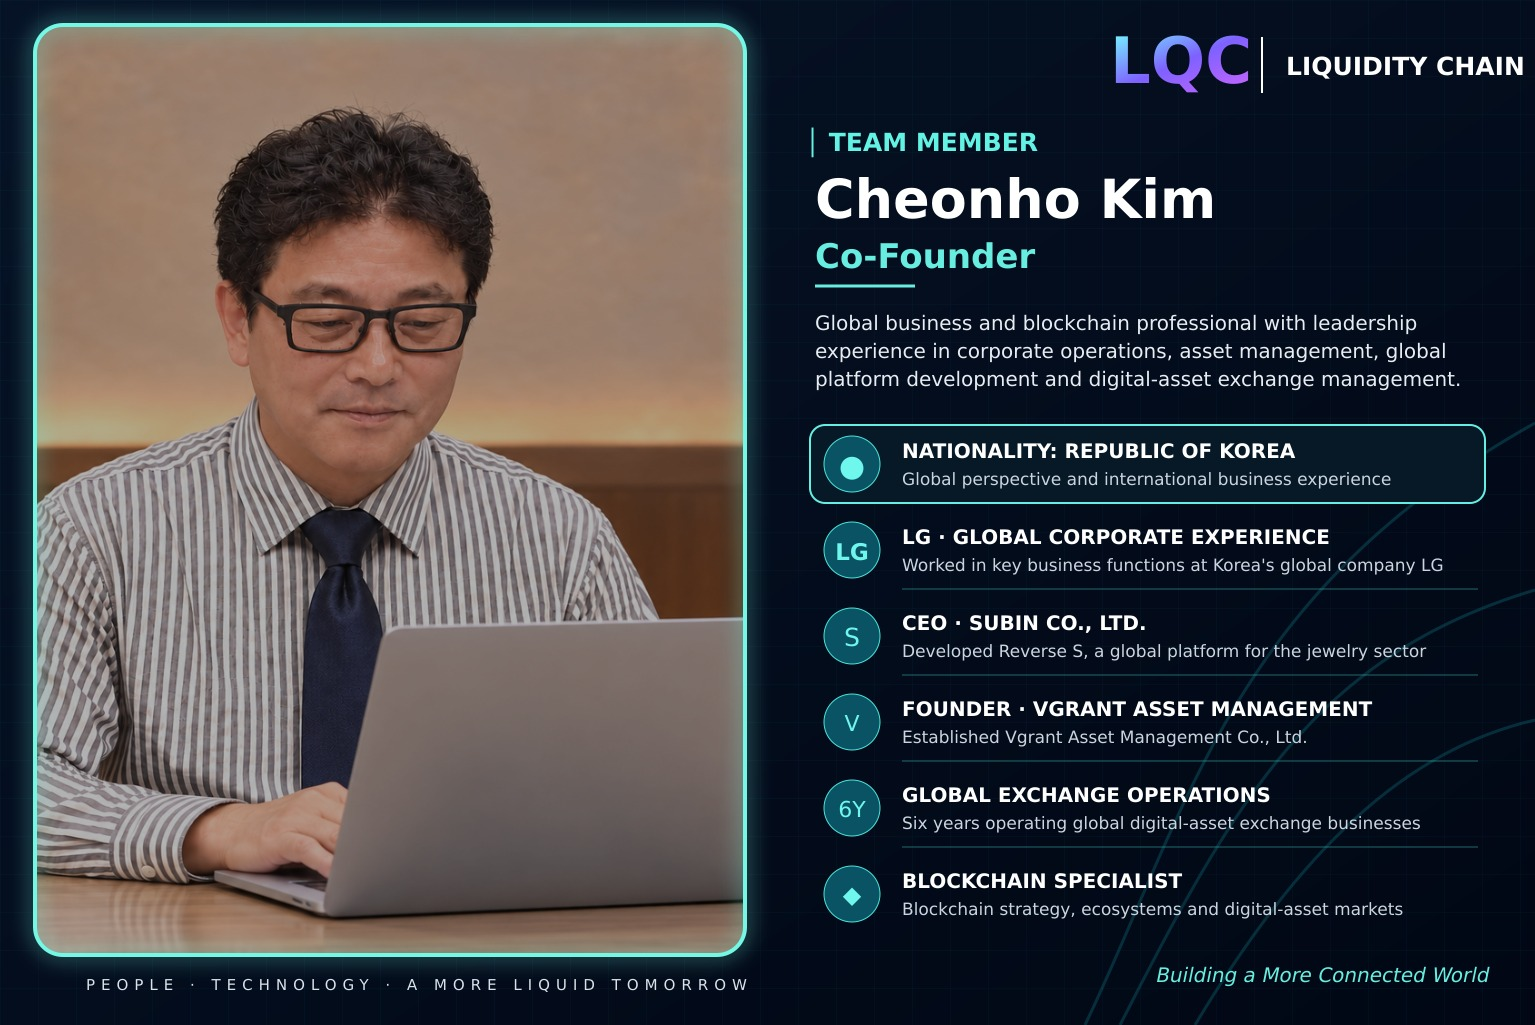
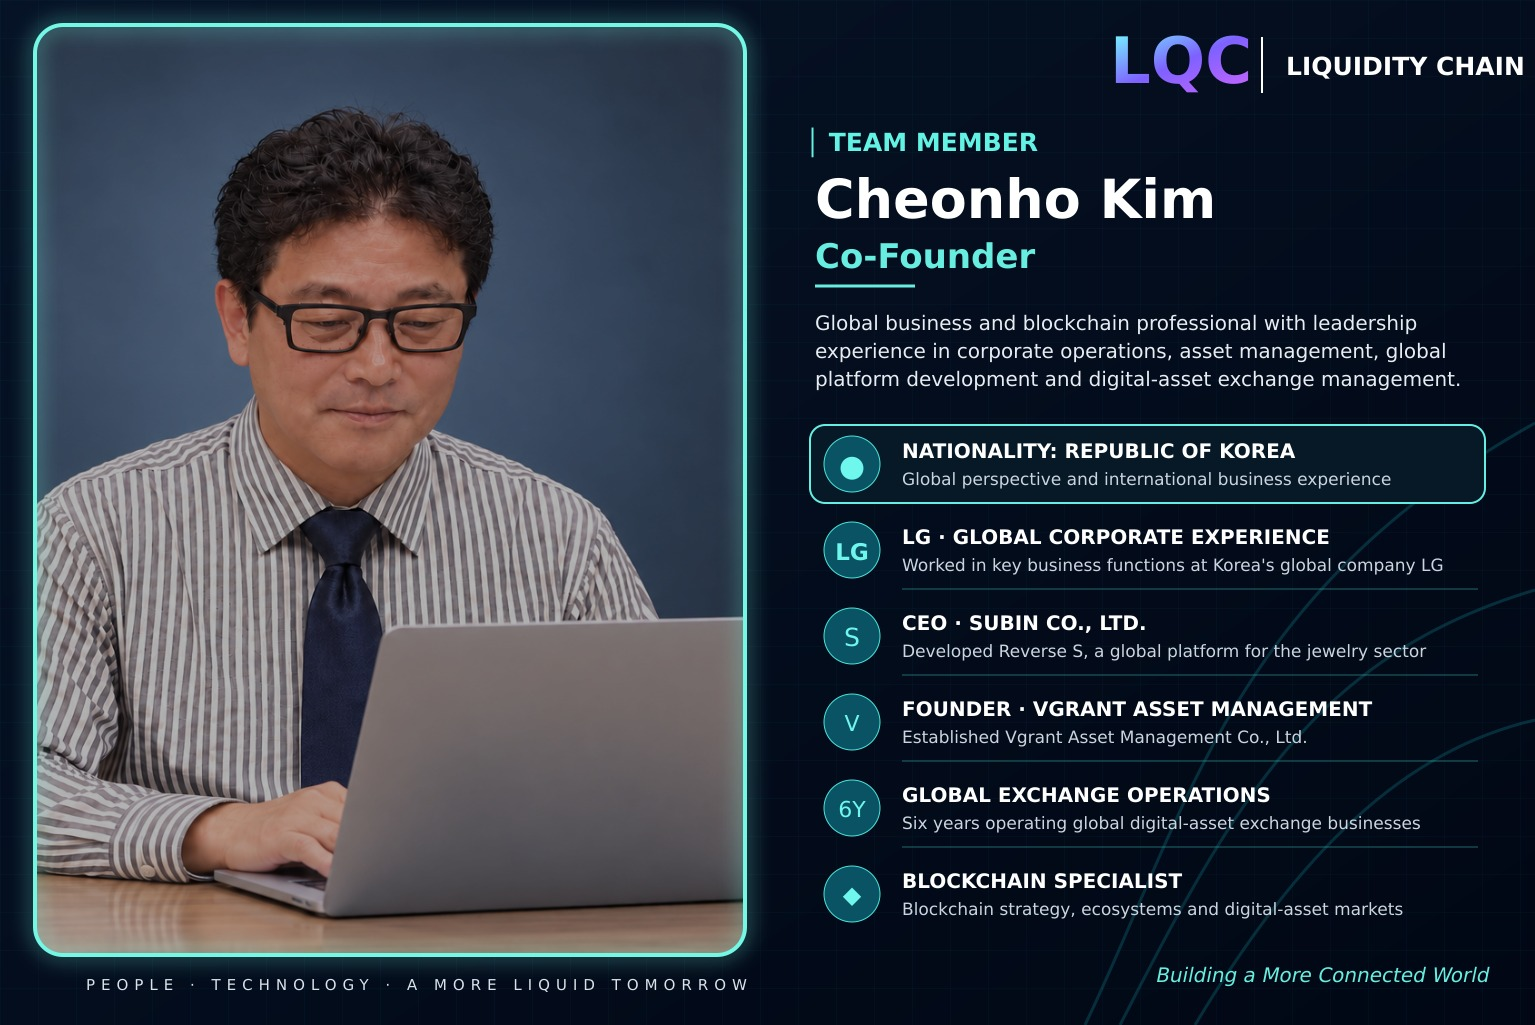
Match Cheonho profile background to team style

diff --git a/team/cheonho-kim.html b/team/cheonho-kim.html
@@ -20,7 +20,7 @@
   <main class="wrap">
     <a class="back" href="../index.html#team">← Back to LQC Team</a>
     <section class="card">
-      <div class="photo"><img src="../assets/cheonho-kim-mint-final.jpg?v=20260907-final" alt="Cheonho Kim, Co-Founder of LQC Liquidity Chain"></div>
+      <div class="photo"><img src="../assets/cheonho-kim-mint-final.jpg?v=20260907-bluegray-final" alt="Cheonho Kim, Co-Founder of LQC Liquidity Chain"></div>
       <div>
         <div class="logo">LQC <span>LIQUIDITY CHAIN</span></div>
         <div class="eyebrow">│ TEAM MEMBER</div>
